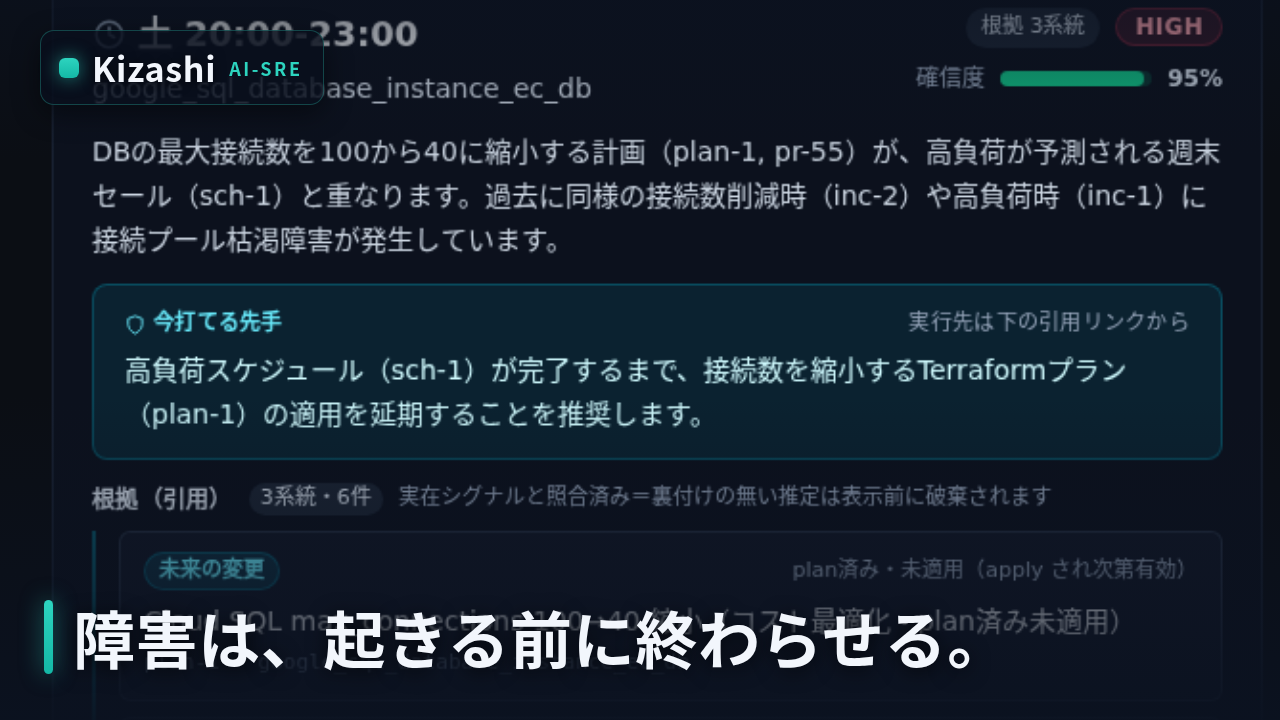
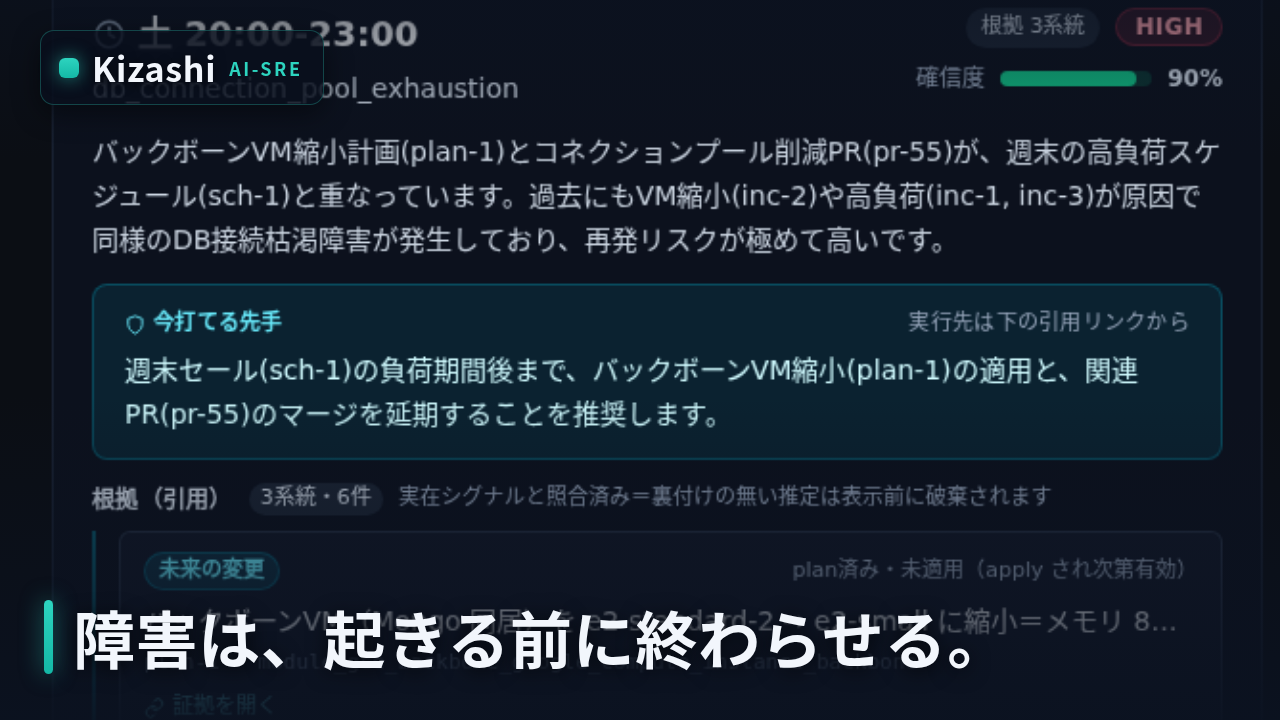
doc最新化

diff --git a/docs/protopedia/video/script.md b/docs/protopedia/video/script.md
@@ -1,12 +1,10 @@
-# 提出動画 台本（2分・合成音声用）
+# 提出動画 台本（完成版 as-built・1:54.70）
 
-> 構成の正: `docs/steps/step6-submission-prompt.md` B-3 の骨子を **2分に圧縮**したもの（競合作品は1分前後が多く、完走率優先で2:00上限。開幕60秒=予兆は `step6-final-sprint-strategy.md` §5 のまま）。
-> 運用: 録画テイクが撮れてから文言を微修正する骨組み確定版。**seed 実物の数値（confidence・チップ文言・件数）と食い違ったらテイク側に合わせて直す**。
-> **take003 突合済み（2026-07-07・step7 C3）**: 各カットの撮影メモに「**実測（take003）**」で on-screen 実測値を記録。ナレーションは揮発数値を言わない設計のため矛盾なし。
-> **⚠ Option B 変更（2026-07-08）**: flagship plan-1 を合成 Cloud SQL（`ec_db` 100→40・外部リンクなし）から**実在リソースの本物 plan**（バックボーンVM `e2-standard-2→e2-small`＝実 PR #83）へ張り替え、plan-1 チップに「証拠を開く」リンクを追加。**カット1（予報）・カット2（引用チップ）は要再撮影**（take003 は旧 Cloud SQL 表示・リンクなし）。ナレは揮発値・リソース名を言わない設計なので台本本文の音声は不変、on-screen のみ差分。
+> **正（2026-07-08 確定）**: リポジトリ直下の完成編集版 **`ハッカソンtake003.mp4`**（1:54.70・1920×1080/30fps・H.264＋AAC）を台本の正とする。本書のカット表はその実内容（as-built）に全面更新済み。ナレーション文言は本編に焼き込まれた字幕（＝ナレ全文をテロップ表示するサブタイトル方式）から復元したもの。
+> 素材の由来: タイトルカードPNG＋`output/take004/part1`（予兆・Option B 反映）＋`output/take003/part2`（調査）＋`output/take003/part3`（学習）＋`output/take004/part4`（ドッグフーディング）。撮影は `scripts/video-capture/`（経緯・撮り直し手順は `docs/steps/step7-final-review-todo.md` §C/§D）。
+> 旧版の設計経緯（take002 豆腐事故→take003→Option B→take004 部分再撮影）は git 履歴参照。本書は「完成版に何が映っているか」を一次資料として保持する——ProtoPedia 文言・ピッチ台本・再編集はここに合わせる。
 
-> 話速想定: 約300字/分（合成音声・ゆっくりめ）＝全体約500字。
-> 撮影: `scripts/video-capture/` がパート単位の webm（`output/takeNNN/part1-forecast.webm` 等）とスクショを自動採取する。パート→カット対応は下表。
+> 話速実測: 全編で約470字/1:55（合成音声・ゆっくりめ）。
 
 ---
 
@@ -14,147 +12,120 @@
 
 > 前提: AI審査員は「音声の文字起こし（ASR）」と「サンプリングしたフレームの OCR／画像理解」で動画を評価しうる。**ナレーションの明瞭さとテロップの機械可読性が最優先**。人間審査員の早送り視聴にも同じ設計が効く。
 
-### BGM は入れるか
+### as-built のテロップ方式（完成版の実態）
 
-- **入れてよいが条件付き**（入れなくても減点はない。トーンは提出資料と同じ事実ベース＝情緒的に盛り上げる曲は不可）。
-- 条件:
-  - **インストゥルメンタルのみ**（歌声・コーラスは文字起こしを汚染する）。
-  - 音量は**ナレーションピーク比 −20dB 以下**（ナレの明瞭度が最優先。迷ったらさらに下げる）。
-  - 書き出し全体のラウドネスは **−14 LUFS** 目安（YouTube の正規化基準。これより大きくしても再生時に下げられるだけ）。
-- 無ナレ区間（カット0・カット7末尾のタイトル）のみ +3〜6dB 上げてよい。カット間の無音0.5秒は BGM で埋まってよい（完全無音の連続は素人感が出る）。
-- 迷ったら「BGM なし・ナレーションのみ」を選ぶ。文字起こし精度 > 演出。
+- **サブタイトル方式**: 短い要約テロップではなく、**ナレーション全文を白太字2行以内の字幕として画面下部中央に焼き込み**。ASR と OCR が同一文言で一致するため、AI審査の取りこぼしに最も強い形。
+- 背景帯は**敷いていない**（白太字＋縁取りで直置き）。サンプルフレーム目視ではUIとの混色による可読性低下は軽微（改善メモ①参照）。
+- 絵文字はテロップに不使用（take002 の豆腐化の教訓）。
+- 倍速バッジ: 右上に「**×5倍速**」（カット4 調査・実測139秒区間）／「**×16倍速**」（カット7 CVE調査・実測116秒区間）を白太字で常時表示。どこを速めたかの正直な明示。
 
-### テロップ仕様
+### BGM（再編集時の基準・初版設計のまま有効）
 
-| 項目 | 値 |
-| --- | --- |
-| フォント | **Noto Sans JP**（本文 Bold=700・強調 Black=900）。装飾フォント不可＝OCR 最優先。UI と同系のサンセリフで統一感も取れる |
-| 文字色（メイン） | `#FFFFFF` |
-| 文字色（補足） | `#E2E8F0` |
-| 強調色（1テロップにキーワード1語まで） | `#38BDF8`（タイトルカードのダーク `#0B1220` 系に合うシアン。アプリのアクセント色があればそちらに合わせる） |
-| 背景帯 | `#0B1220` 不透明度 70〜80%（`rgba(11,18,32,0.75)`）。**どの画面の上でも必ず帯を敷く**（UI と文字の混色で OCR が落ちるのを防ぐ） |
-| サイズ（1080p 基準） | メインテロップ **56〜64px**（画面高の約5〜6%）・倍速バッジ **40〜48px** |
-| 位置 | **下部 1/3 に固定**。左右・下のセーフマージン 5%（96px / 54px）。予報カード・引用チップ・証拠リンク等の「見せたい UI」を隠さない |
-| 行数・字数 | 最大2行・1行 全角15〜18字。1テロップ = 1メッセージ |
-| 表示時間 | 最低2秒。対応するナレーションの読み上げ区間と開始・終了を揃える |
-
-### 倍速（カット4「×N」）の表現
-
-- **右上に常時チップ「×4」**（上記フォント Bold・背景帯つき・40〜48px）。倍速区間の開始フレームで出し、実速に戻るフレームで消す＝「どこを速めたか」の正直な明示（審査で誠実さとして効く）。
-- 早送り風エフェクト（モーションブラー・ホワイトフラッシュ・コマ落ち風）は不可: フレーム OCR で文字が潰れる＋演出過多でトーンに反する。
-- タイムライン UI のタイムスタンプが飛んで進む様子がそのまま映るので、それ自体が倍速の証明になる（追加演出不要）。
-
-### その他 tips（AI審査で効く順）
-
-1. **テロップはナレーションと同じ語彙で書く**。ASR（音声）と OCR（画面）が同じキーワードで一致すると、情報が二重に拾われ取りこぼしがない。
-2. **テロップに数値を焼くなら実測値と完全一致させる**（撮影前チェックリスト C3 と同じ基準）。音声・画面・テロップ間の数値矛盾は AI が最も検出しやすい失点。
-3. テロップの出入りは**ハードカットか 0.2 秒以内のフェード**。長いフェードは半透明の中間フレームがサンプリングされ OCR が落ちる。
-4. **テロップに絵文字を使わない**（🛡 等は UI 側のみ。take002 の豆腐化の教訓＝フォント環境依存）。
-5. 最後に**テロップだけを通し読み**して物語が通るか確認（チェックリスト最終項目と同じ。早送り・フレーム抽出のどちらの審査でも骨子が残る）。
+- 入れてよいが条件付き（入れなくても減点はない。情緒的に盛り上げる曲は不可）。
+- インストゥルメンタルのみ／ナレーションピーク比 −20dB 以下／全体 −14 LUFS 目安。
+- 無ナレ区間（カット0）のみ +3〜6dB 可。迷ったら BGM なし。文字起こし精度 > 演出。
 
 ---
 
-## パート（撮影単位）→ カット対応
+## 完成版の素材構成
 
-| パート webm | カバーするカット | 備考 |
+| 区間 | 素材 | 備考 |
 | --- | --- | --- |
-| `part1-forecast` | カット1〜3前半 | 予報→引用→先手→ブリッジ遷移 |
-| `part2-investigation` | カット3後半〜5 | 着弾→調査（生撮り・編集で倍速）→レポート |
-| `part3-learning` | カット5承認〜6 | 承認→昇格→再発火の即・既知 |
-| `part4-dogfooding` | カット7素材 | CVEアラート＋実draft PR |
-| スライドPNG | カット0（タイトルカード）・カット7締め | 撮影ツール対象外（HTML→PNG・step7 todo C1） |
+| カット0 | `docs/protopedia/assets/title-card.png`（静止5秒） | Heroコピー＋Kizashi副題 |
+| カット1〜3 | `output/take004/part1-forecast.mp4` | Option B 反映（plan-1=VM縮小・#83/#55 同一タブ遷移） |
+| カット4〜5 | `output/take003/part2-investigation.mp4` | 実 Gemini 調査139秒→編集で×5倍速 |
+| カット6 | `output/take003/part3-learning.mp4` | 承認→昇格→再発火の即・既知 |
+| カット7 | `output/take004/part4-dogfooding.mp4` | CVE注入→調査116秒（×16倍速）→起票→PR #29 |
 
 ---
 
-## カット表
+## カット表（as-built）
 
-### カット0｜0:00–0:05｜タイトルカード（Heroコピー）
+### カット0｜0:00–0:05｜タイトルカード
 
-- **画面**: 静止PNG（`docs/protopedia/assets/title-card.png`・ダーク #0B1220）。中央に大「**障害は、起きる前に終わらせる。**」＋小「Kizashi — AI-SRE エージェント」。
-- **ナレーション**: なし（無音0.5秒→カット1ナレへ）。審査員がどの再生環境でも**最初の5秒で価値コピーを読める**ことが目的。
-- **撮影メモ**: step7 todo C1 で生成。動画編集で先頭に静止配置（フェードなしのハードカットで可）。
+- **画面**: 静止PNG（ダーク #0B1220）。中央に大「**障害は、起きる前に終わらせる。**」＋小「Kizashi — AI-SRE エージェント」（teal アクセント）。
+- **ナレーション**: なし（無音→カット1へハードカット）。
 
-### カット1｜0:05–0:17｜フック: 予報カード
+### カット1｜0:05–0:14｜フック: 予報カード
 
-- **画面**: 予兆ページ `/forecast`。DB接続枯渇の予報カード全景（HIGH・確信度・引用チップ・🛡先手）。
-- **ナレーション**（51字）: データベースが落ちる“前”に、AIはこう言いました。——「土曜20時、DB接続枯渇・リスクHIGH」。
-- **テロップ**: 起きる前に、根拠付きで予報する
-- **撮影メモ**: F8 フラッグシップ seed・事前生成済み予報（GET /forecast キャッシュ）。**実測（take003）**: 窓＝`土 20:00-23:00`・確信度 **95%**・HIGH・根拠 3系統6件・評価シグナル9件。確信度はナレで言わない（画面に映る）。窓が「土曜20時」始まりであることはナレと一致。
+- **画面**: 予兆ブリーフィング `/forecast` 全景。予報カード＝窓 `土 20:00-23:00`・**HIGH・確信度 90%**・`db_connection_pool_exhaustion`・根拠3系統6件・評価シグナル9件・「今打てる先手」。右サイドに投入シグナル台帳＋デモコンソール。ヘッダ「Kizashi AI-SRE」。
+- **ナレーション/字幕**: 障害が起きる前にAIは予報します。——「週末の夜にDB障害のリスクが高い」。
+- **メモ**: 確信度・窓の数値はナレで言わない（画面が語る）。F8 フラッグシップ seed・事前生成済みキャッシュ（撮影中に POST しない）。
 
-### カット2｜0:17–0:36｜根拠は本物 ＋ 先手
+### カット2｜0:14–0:29｜根拠は本物 ＋ 先手
 
-- **画面**: 「未マージPR」の引用チップ（`pr-55`・`[draft] chore(db): cap DB connection pool`）の「証拠を開く」をクリック → 実在の draft PR に解決 → 戻って「🛡 今打てる先手」を静止。
-- **ナレーション**（79字）: 根拠は引用。プール縮小の未マージPR、週末セールの負荷予定、過去の同型障害。偽の引用は実在照合で自動で落ち、さらに、いま打てる先手まで提示します。
-- **テロップ**: 引用は実在照合済み・偽引用は自動除外
-- **撮影メモ**: PR チップの解決先は実 draft PR（branch `chore/db-connection-pool-cap`）。撮影前にリンク切れ確認。**⚠ Option B で要再撮影（take003 は旧内容）**: plan-1 を実在リソースの本物 plan（バックボーンVM `e2-standard-2→e2-small` 縮小＝PR #83）に張り替え、plan-1 チップにも「証拠を開く」リンクを付けた。新on-screen: 引用レーンは3系統＝未来の変更（plan-1 VM 縮小＝**実 PR #83 にリンク**／pr-55 draft）・スケジュール（sch-1 週末セール checkout x5）・過去の同型事例（inc-1／inc-2＝過去に同じ VM 縮小で枯渇）。**外部リンク付きは pr-55 と plan-1 の両方**。先手＝「高負荷スケジュール(sch-1)完了まで VM 縮小プラン(plan-1)適用を延期」。**capture.mjs 更新（2026-07-08・(c)方式）で「証拠を開く」は撮影時だけ target を外し本物クリックで本編と同一タブに遷移する**（旧実装は別タブ popup を別 webm に録って閉じ、本編 mp4 に PR が一切写らなかった＝「PRに飛んでいない」の実体）。plan-1→PR #83、pr-55→draft PR の2本を順に開いて /forecast へ戻る。
-- **⚠ 撮影前の GitHub リタイトル（人間・VM 物語への整合）**: ①**PR #55** を「[現行] cap DB connection pool (max_connections 100→40)…」→「**chore(db): cap Mongo connection pool (maxPoolSize 100→40) to fit downsized backbone VM**」へ（diff=MongoClientFactory maxPoolSize 40 のままタイトルだけ実態に合わせ、VM 縮小に合わせたプール縮小＝flagship と同一物語に編入。チップ desc/subject は PR タイトル直写しなのでリタイトルだけで UI が直る）。②**PR #83** のタイトルから「（デモ証拠PR・DO NOT MERGE）」を外し「chore(infra): バックボーンVMをコスト最適化で e2-small に縮小」へ（pr-83 チップにも title が直写しされるため。draft 状態＋本文の DO NOT MERGE 警告は維持＝draft はマージボタンが塞がれるので安全）。リタイトル後に予報を再生成してから撮影。
+- **画面**: ①plan-1 チップ「バックボーンVM（Mongo 同居）を e2-standard-2 → e2-small に縮小」の「証拠を開く」→ **実 PR #83 に本編同一タブで遷移**（github-actions bot の terraform plan コメント＝リソース変更3件・`gce_backbone` 含む＝D2/D3 パイプラインの実発火）→ `/forecast` へ復帰 ② pr-55 チップ「[draft] chore(db): cap Mongo connection pool (maxPoolSize 100→40) to fit downsized backbone VM」→ **実 PR #55 draft に同一タブ遷移** ③戻って「今打てる先手」（sch-1 完了まで plan-1 適用と pr-55 マージを延期）を静止。
+- **ナレーション/字幕**: AIは過去・現在・未来の情報を根拠に予報します。例えば未マージのPR、週末セールの負荷予定、過去のアラートなど。さらに打てる手段まで提示します。
+- **メモ**: 引用は plan-1/pr-55/sch-1/inc-1/inc-2/inc-3（3系統6件）。「証拠を開く」は capture.mjs の (c)方式＝撮影時だけ target を外し本物クリックで同一タブ遷移（本編 mp4 に PR が写る）。外部リンク復帰は goBack でなく明示 goto（クロスオリジン戻り対策）。
 
-### カット3｜0:36–0:48｜発火 → 未知分類
+### カット3｜0:29–0:44｜記憶との照合 → 発火への橋
 
-- **画面**: ページ末尾ブリッジCTA「もし防ぎきれずに発火したら？」→ `/alerts` → アラート着弾（合成バッジ可）→「未知」判定 → 調査開始。
-- **ナレーション**（58字）: それでも防げず発火したら。アラートを過去の記憶と照合し、未知と判定。ここで初めてAIエージェントが起動します。
-- **テロップ**: 既知・類似ならAIを呼ばない ／ 未知だけ自律調査
-- **撮影メモ**: デモシナリオ **3b** を使用。DB枯渇そのものの発火シナリオは無いため**障害種別を名指ししない**文面。**実測（take003）**: アラート名＝「インフラ障害（CRITICAL ログ検知）」（`gcp.monitoring.critical_log_entries`）・分類＝未知。
+- **画面**: 過去の同型事例チップ inc-1 →「チェックアウト遅延」（2026/6/20・AI推定パターン `db connection pool exhaustion`）へ**アプリ内遷移**＝「過去の記憶」の実物 → `/forecast` 末尾のブリッジCTA「もし防ぎきれずに発火したら？」→ `/alerts`（学習ループのオンボーディングバナー＋デモコンソール）。
+- **ナレーション/字幕**: それでも防げず発火したら。アラートを過去の記憶と照合し、未知と判定された場合、ここで初めてAIエージェントが起動します。
+- **メモ**: 旧台本と違い「未知判定の瞬間」を独立カットにせず、過去アラート詳細を「記憶」の画として使いながらナレで照合→未知→起動を語る構成。着弾一覧の「AI が未知障害を調査中…」表示（カット4冒頭）が未知判定の画面証拠を兼ねる。
 
-### カット4｜0:48–1:12｜ADK 8エージェントのライブ調査
+### カット4｜0:44–1:05｜ADK マルチエージェントのライブ調査（×5倍速）
 
-- **画面**: SSE ライブ・タイムライン。**生撮り約2〜3分 → 編集で2〜4倍速**（開始と着地のみ実速・「×N」表示を焼き込む）。
-- **ナレーション**（92字）: Google ADKの8体のエージェントが、実ログ・実コミット差分・インフラ差分をread-onlyで横断。批判役エージェントが、証拠のない因果を検証してはじきます。過程はライブで中継されます。
-- **テロップ**: ADK 8エージェント ／ read-only（×N倍速表示）
-- **撮影メモ**: 実 Gemini 経路。fallback が出たテイクは撮り直し。**実測（take003）**: 8エージェント実名＝Coordinator／EvidenceCollector（ログ・Terraform・コミット・類似事例DB を横断）／RootCauseAnalyst／ImpactTriage／**CorrelationVerifier（＝批判役・相関主張と因果の向きを検証）**／RemediationPlanner／RunbookEscalation／RemediationReviewer。ナレの「批判役」＝CorrelationVerifier、「実ログ・コミット差分・インフラ差分」＝EvidenceCollectorの収集源に一致。調査 **139秒**（倍速表示の根拠）。fallbackなし。
+- **画面**: デモコンソールから「インフラ障害（合成・反復用）」＝シナリオ3b を注入 → 一覧に着弾「インフラ障害（CRITICAL ログ検知）」（`gcp.monitoring.critical_log_entries`）→ 詳細のSSEライブ・タイムライン。8エージェント実名（Coordinator／EvidenceCollector／RootCauseAnalyst／ImpactTriage／**CorrelationVerifier＝批判役**／RemediationPlanner／RunbookEscalation／RemediationReviewer）が順に実行中→✓。右上に「×5倍速」バッジ。
+- **ナレーション/字幕**: Google ADKのマルチエージェントが、実ログ・実コミット差分・インフラ差分をread-onlyで横断。批判役エージェントが、証拠のない因果を検証してはじきます。過程はライブで中継されます。
+- **メモ**: ナレは「8体」と数を言わず「マルチエージェント」（画面に8行の実名が映るので数は画面が語る）。実測: 実 Gemini 調査 **139秒**・fallbackなし。
 
-### カット5｜1:12–1:35｜レポート・証拠・承認
+### カット5｜1:05–1:21｜レポート・証拠・承認
 
-- **画面**: レポート（原因・影響・確信度）→ 根拠リンククリック → 実コミット/実PR → 戻ってAIの分類判定を「承認」クリック（PR自体の承認・マージではない）。
-- **ナレーション**（75字）: 数分で、根拠リンク付きのレポート。原因は実在のコミットへ、インフラ変更は実在のPRへ。人間がやるのは、裏を取って、AIの判定を承認するだけです。
-- **テロップ**: 結論には実在の証拠リンク ／ 最終判断は人間
-- **撮影メモ**: 確信度の実測値が映るためナレで数値は言わない。GitHub タブは事前ログイン・ダーク統一。PRは閲覧のみ（承認・マージ操作はしない）。**実測（take003）**: 原因＝`db connection exhaustion`（Terraform で `max_connections 100→20` の退行）・証拠 **6件**（Terraform 1＋類似事例DB 5）・確信度 **90%**（AI自己申告95%を裏付け上限で90%に補正・画面に映る）・影響算定根拠 3/3 実在照合済み。収集証拠 TERRAFORM カードの「変更 PR を開く」が実PRへ解決。「数分」＝実測139秒。
+- **画面**: レポート全景＝発報内容（合成注入の正直開示つき）→ AI推定パターン `db connection exhaustion`（自責・自社コード/IaC起因）→ 証拠の流れ（Terraform 1＋類似事例DB 5＝6件・**AI確信度 90%**＝自己申告95%を裏付け上限で補正、の但し書きが映る）→ 推奨アクション（`max_connections` を戻す）→ 影響評価（算定根拠 3/3 実在照合済み）→ 収集した証拠 TERRAFORM カード（`max_connections: 100 → 20` の実差分）→「AI の分類をレビュー」の**承認**をクリック。
+- **ナレーション/字幕**: 数分で、根拠リンク付きのレポート作成。原因となるコミットやPRへのリンクも引用します。作業者はAIの判定をレビューと承認するだけ。
+- **メモ**: このカットでは GitHub へ飛ばない（カット2で#83/#55、カット7で#29 に実遷移済み＝リンク実在性は別カットが証明）。「数分」＝実測139秒と整合。
 
-### カット6｜1:35–1:48｜学習ループ（既知1秒）
+### カット6｜1:21–1:32｜学習ループ（既知1秒）
 
-- **画面**: 承認完了通知 → 既知へ昇格 → 同型アラート再発火 → 一覧で即「既知」判定の対比。
-- **ナレーション**（55字）: 承認で学習し、同じ障害は次から1秒未満・AIコストゼロで判定。使うほど、速く安くなります。
-- **テロップ**: 既知は1秒未満 ／ AIコストゼロ
-- **撮影メモ**: 承認で dedup 窓から外れ再発火が即・既知になる実装挙動をそのまま使う。**実測（take003）**: 再発火アラートは「✓ 完全一致」（EXACT）・承認済みカードは「AI確信度 90%」表示。上部カウンタ＝総アラート **6件**＝既知即決 1＋AI調査 5＋学習パターン化 1。
+- **画面**: 承認済み表示→「既知パターンへ昇格済み」→ 一覧（総アラート・AI確信度90%の承認済みカード）→ 同型アラート再発火が即「**✓ 完全一致**」で着弾（レビュー待ち・AI調査なし）。
+- **ナレーション/字幕**: 承認で学習し、同じ障害は次から1秒未満・AIコストゼロで判定。運用するほど、速く安く調査ができます。
+- **メモ**: 承認で dedup 窓から外れ再発火が即・既知になる実装挙動をそのまま撮影。
 
-### カット7｜1:48–2:00｜ドッグフーディング ＋ 締め
+### カット7｜1:32–1:54.7｜ドッグフーディング ＋ 締め
 
-- **画面**: 自リポジトリ CI（Trivy）検知のアラート → AI起票の**実 draft PR**（2〜3秒）→ スライドPNG（アーキ4層＋数字パック: ユニットテスト全緑・既知1秒未満・調査約2〜3分）→ タイトル。
-- **ナレーション**（72字）: このリポジトリ自身も監視対象。CIの脆弱性検知から、AIが修正のドラフトPRまで起票します。起きる前に予報し、起きた後は自律調査する——Kizashiです。
-- **テロップ**: 自分自身も監視（自動マージなし・人間承認） ／ 数値はすべて実測
-- **撮影メモ**: draft PR は事前起票済みの実物＝**PR #29**。**カット7は capture.mjs 更新（2026-07-08・(c)方式）で「アプリ内の実リンク『修正 PR を開く →』を撮影時だけ target を外し本物クリックで同一タブに開く」動線に変更**（調査完了＝RemediationPanel が drafted になるまで待ってからクリック。remediation mode=demo が PR #29 を返す）。リンクが出ない環境は `DRAFT_PR_URL`／既定 #29 への直行にフォールバック。旧実装は `page.goto` の直行ジャンプで**アプリからの動線が映らなかった**（本編と繋がらない）ための改修。スライドは HTML→headless Chrome→PNG。**実測（take003）**: CVEアラート＝「脆弱性の検知」（`security.vulnerability_detected`・trivy）。draft PR に実CVEリンク（CVE-2021-3807／CVE-2022-25883）・`ai-remediation[bot]` の2コミット・`Draft`／「自動マージはしません」表示。
+- **画面**: デモコンソール「脆弱性検知」（CI(Trivy) の HIGH/CRITICAL を合成→AI調査→修正PR起票＝DevOpsループ、の説明が映る）→ 注入 →「脆弱性の検知」（`security.vulnerability_detected`・trivy）の8エージェント調査（右上「×16倍速」）→ レポート＝依存パッケージ2つ（`ansi-regex`/`semver`）にCRITICAL/HIGH計2件・実CVE引用・証拠12件（GitHub 10＋類似事例DB 2）・確信度90%・算定根拠 3/3 実在照合 → 自動修正（リメディエーション）パネル「修正を起票」実クリック→「修正 PR 作成済み・修正 PR を開く →」→ **実 draft PR #29 に本編同一タブで遷移**（「セキュリティ: 依存関係の脆弱性を修正」・`ai-remediation[bot]` 2コミット・CVE-2021-3807／CVE-2022-25883・Draft・「自動マージはしません」）。ここで終了。
+- **ナレーション/字幕**: このリポジトリ自身も監視対象。CIの脆弱性検知から、AIが修正のドラフトPRまで起票します。起きる前に予報し、起きた後は自律調査する——これがKizashi（兆し）の機能になります。
+- **メモ**: 実測: CVE調査 **116秒**・fallbackなし。旧台本にあった「スライドPNG（アーキ4層＋数字パック）→締めタイトル」は**完成版には入っていない**（改善メモ①）。アーキ図は ProtoPedia 画像2枚目で担保。
 
 ---
 
-## ProtoPedia 紹介画像5枚との対応（B-5）
+## 改善メモ（再編集する場合のみ・ROI順）
 
-| 画像 | 採取元 | UI状態 |
+1. **締めにタイトルカードを1.5〜3秒追加**（`title-card.png` 再利用・ナレ追加不要・末尾に静止画を足す編集のみ）: 現状は GitHub の PR ページ（Sign up バナー入り）で突然終わり、最終フレームにブランドの回収がない。尺は 1:58 前後に収まり2:00上限内。数字パック（テスト全緑・既知1秒・調査2分）を小さく添える案も可。
+2. 締めのナレ「これがKizashi（兆し）の機能になります」は説明形で締めとしては弱い——再録するなら「障害は、起きる前に終わらせる。——Kizashiです。」で Hero コピーを回収（音声再録が必要なので①より重い）。
+3. テロップに半透明帯（`rgba(11,18,32,0.75)`）を敷くと UI と重なるフレームの OCR 耐性が上がる（現状でも軽微、全面再編集になるため優先度低）。
+4. 表記ゆれ: 字幕「出来ます」→「できます」（かな書き推奨・微差）。
+
+---
+
+## ProtoPedia 紹介画像5枚との対応（B2 ポスター化済み）
+
+| 画像 | ファイル | 元素材 |
 | --- | --- | --- |
-| 1. 予報カード＋引用チップ | part1 `01-forecast-card.png` | HIGH・確信度・チップが1画面に |
-| 2. アーキ図 | スライドPNG | — |
-| 3. 調査ライブ・タイムライン | part2 `03-live-timeline.png` | 複数エージェントの進行が見える瞬間 |
-| 4. 証拠パネル | part2 `06-evidence-panel.png` 前後 | 実ログ・実diff・実PRリンクが並ぶ |
-| 5. 既知1秒の対比 | part3 `01-known-instant.png` | 承認済みと即・既知が同一画面 |
+| 1. 予報カード（Hero） | `poster-1-hero.png` | take004 part1 `01-forecast-card`（VM予報・90%） |
+| 2. アーキ図 | `architecture.png`（ダーク版・帯なし） | B1 再レンダ |
+| 3. 調査ライブ・タイムライン | `poster-3-live-agents.png` | take003 part2 `03-live-timeline` |
+| 4. 証拠パネル | `poster-4-evidence.png` | take003 part2 `06-evidence-panel` |
+| 5. 既知1秒の対比 | `poster-5-known.png` | take003 part3 `01-known-instant` |
 
 ---
 
-## 合成音声メモ（VOICEVOX 等）
+## 合成音声メモ（VOICEVOX 等・再録時用）
 
-- 読み方辞書: Kizashi=きざし ／ ADK=エーディーケー ／ DB=ディービー ／ PR=ピーアール ／ draft=ドラフト ／ diff=ディフ ／ read-only=リードオンリー ／ HIGH=ハイ ／ Trivy=トリビー ／ Gemini=ジェミニ
+- 読み方辞書: Kizashi=きざし ／ ADK=エーディーケー ／ DB=ディービー ／ PR=ピーアール ／ draft=ドラフト ／ read-only=リードオンリー ／ HIGH=ハイ ／ Trivy=トリビー ／ Gemini=ジェミニ ／ CVE=シーブイイー
 - 「——」は0.5秒ポーズ、「。」は0.4秒ポーズ目安。カット間は無音0.5秒。
 - トーンは提出資料と同じ事実ベース（情緒演出なし）。
 
 ---
 
-## 撮影前チェックリスト
+## 完成版チェック結果（旧・撮影前チェックリストの照合）
 
-- [ ] **絵文字フォント**: `fc-list | grep -ci emoji` が 1 以上（0 だと 🛡📅 等が全編□に化ける。take002 で実害確認済み＝step7 todo A1）
-- [ ] **ブランド**: アプリヘッダーが「Kizashi」表記（step7 todo A2 反映後に撮る）
-- [ ] タイトルカード PNG 生成済み（`docs/protopedia/assets/title-card.png`・step7 todo C1）
-- [ ] FORECAST_ENABLED=on・予報は事前生成済み（POST を撮影中に走らせない）
-- [ ] 引用チップ全クリック確認（PR / plan / 過去Alert のリンク切れなし）
-- [ ] シナリオ3b を実 Gemini でリハ1周（fallback にならないこと・正当相関が残ること）
-- [x] confidence・件数・チップ文言を seed 実物と突合し、台本の数字を実物に合わせて修正（take003 と突合済み・各カット撮影メモに実測値記録＝C3）
-- [ ] GitHub タブ: ログイン済み・テーマ統一・通知バッジ等の映り込みなし
-- [ ] 撮影はローカル compose（本番URLでは撮らない）
-- [ ] **テロップ完結性**: どの15秒で切られても物語が通るか、テロップだけ通し読みして確認（審査員は早送りする前提）
+- [x] 絵文字フォント/豆腐: 全サンプルフレームに U+FFFD/□ なし（A1 SVG化＋フォント導入）
+- [x] ブランド: 全画面ヘッダー「Kizashi AI-SRE」・タイトルカードあり（0:00–0:05）
+- [x] 予報は事前生成キャッシュ（撮影中の POST なし）・確信度90%はナレで言わない設計と整合
+- [x] 引用チップの実遷移が本編に焼き込み（plan-1→#83／pr-55→#55／カット7→#29・すべて同一タブ）
+- [x] シナリオ3b 実 Gemini 完走（139秒・fallbackなし）／CVE 116秒・fallbackなし
+- [x] 数値矛盾なし: ナレは揮発数値を言わず、画面実測（90%・6件・12件・3/3照合）と字幕が矛盾しない
+- [x] テロップ完結性: 字幕＝ナレ全文のため、どの15秒で切られても音声と画面の情報が一致
+- [ ] 締めのブランド回収（改善メモ①・任意）

diff --git a/docs/steps/step7-final-review-todo.md b/docs/steps/step7-final-review-todo.md
@@ -22,8 +22,8 @@
 | D2   | terraform plan の永続化＋PRコメント（CIのみ）       | ★★★☆☆          | エージェント＋人間(CI確認) | 済（plan.txt＋redacted JSONをartifact保存・PRコメントupsert・生plan.jsonはsensitive平文を含むため不保存／要人間=ダミーPRでCI確認）                               |
 | D3   | plan の record口への自動投入                        | ★★☆☆☆（D2後）  | エージェント＋人間(CI確認) | 済（POST /ingest/terraform-plan 新設・CIからredacted差分を自動POST・UT+9 1065緑・tsc緑／要人間=D2と同じダミーPRで疎通確認）                                      |
 | D3.5 | flagship plan-1 を実在VM plan へ張り替え＋#83リンク | ★★★★☆          | エージェント＋人間(PR)     | 済（plan-1=バックボーンVM e2-standard-2→e2-small・過去事例/stub/subject突合も張り替え・#83を既定リンク・ローカル実Gemini検証で引用[plan-1,sch-1,inc-2]・1069緑） |
-| D4   | part1 再撮影（VM予報＋plan-1リンク＋同一タブ遷移）  | ★★★☆☆（B必須） | エージェント               | 未（Option Bで plan-1=VM縮小＋証拠を開く→#83／capture.mjs=(c)方式で証拠リンクを同一タブに焼く・音声台本不変/on-screenのみ／後続でB2#1・B3再生成／script.md・retake-prompt更新済み） |
-| D5   | part4 再撮影（カット7 同一タブ「修正PRを開く」動線）| ★★★☆☆          | エージェント               | 未（アラート→AI起票PRを1動線に・調査完了(drafted)待ち+約2分・未検出時#29直行フォールバック・capture.mjs/script.md/retake-prompt更新済み）                        |
+| D4   | part1 再撮影（VM予報＋plan-1リンク＋同一タブ遷移）  | ★★★☆☆（B必須） | エージェント               | 済（take004 撮影＝VM予報・plan-1→#83/pr-55→draft を本編同一タブに焼き込み・確信度90%・豆腐0／goBack→goto 修正/B2 poster-1・B3 thumbnail を take004 で再生成/script.md 実測=take004 更新）             |
+| D5   | part4 再撮影（カット7 同一タブ「修正PRを開く」動線）| ★★★☆☆          | エージェント               | 済（take004 撮影＝CVE検知→調査116秒→「修正を起票」実クリック→drafted→修正PRを開く→#29 を1動線で本編に焼き込み／capture.mjs に起票クリック手順を追加/script.md 実測=take004 更新）              |
 | A5   | 調査中の証拠パネルの逐次表示                        | ★☆☆☆☆（余力）  | エージェント               | 未                                                                                                                                                               |
 
 ---
@@ -313,6 +313,21 @@ take003 は旧 Cloud SQL 表示・plan-1 リンクなしで撮影済み。Option
 - **確認**: `cve-alert`（調査後・レポート/RemediationPanel が出た状態）と `draft-pr`（PR #29）が本編に写る。
 - **C3**: カット7 の実測を take004 で突合（ナレ不変）。
 - **依存文言**: 「修正 PR を開く」（RemediationPanel drafted 時）。`retake-prompt.md` のドリフト表に追記済み。
+
+**実施記録（2026-07-08・D4）**: `TAKE=take004 node capture.mjs forecast` で part1 を再撮影（実 Gemini 経路・予報は事前生成キャッシュ＝POSTなし・課金なし）。出力 `output/take004/part1-forecast.mp4`（2.6M・H.264/1920×1080）＋スクショ5枚。
+
+- **capture.mjs バグ修正**: カット2の外部チップ（github PR #83/#55）から /forecast へ戻る動線が `page.goBack()` だとクロスオリジン戻りで SPA カード（article）が復帰せずタイムアウトしていた。**`page.goto(/forecast)` の明示リロードに変更**（初回 goto は成功する＝GET /forecast 200 でカード再描画）。これで part1 が最後まで完走。
+- **目視検証（豆腐0・Kizashi・VM 物語）**: `01-forecast-card`＝予兆ブリーフィング・plan-1「バックボーンVM e2-standard-2→e2-small 縮小・証拠を開く」・pr-55「cap Mongo connection pool (maxPoolSize 100→40)」・A3 人間語見出し/mono メタ・A4 一文導入・**確信度 90%**（旧 take003 は 95%）。`02/03`＝plan-1→**PR #83**（terraform plan コメント3件変更・gce_backbone 含む＝D2/D3 発火済み）／pr-55→**PR #55 draft**（いずれも本編同一タブ遷移＝(c)方式で mp4 に PR が写る）。`04`＝過去 Alert inc-1「チェックアウト遅延」へアプリ内遷移。`05`＝今打てる先手。すべて U+FFFD/□ なし。
+- **後続完了**: `make-posters.mjs`/`make-thumbnail.mjs` を take 指定可に改修（poster-1-hero と video-thumbnail を **take004** から、poster 3/4/5 は part2/part3 由来で take003 据置）→ `poster-1-hero.png`・`video-thumbnail.png` を VM 予報カードで再生成（豆腐0・目視 OK）。
+- **C3**: `script.md` カット1/2 を「実測（take004）」へ更新（確信度 95%→**90%**・plan-1=VM・同一タブ遷移の焼き込み確認）。ナレは揮発値を言わない設計のため不変。
+- **残（人間）**: 採用 mp4/スクショの確定と提出物への反映（output/ は .gitignore・採用スクショのみ docs/protopedia/assets/ へコピー）。前提の GitHub リタイトル #55/#83 は反映済みを確認（予報 JSON・スクショで実タイトル表示）。
+
+**実施記録（2026-07-08・D5）**: 先に `POST /demo/reset`（シナリオ4 dedup 回避）→ `TAKE=take004 node capture.mjs dogfooding` で part4 を再撮影（実 Gemini 調査・**116秒**・証拠12件・確信度90%・fallbackなし）。
+
+- **capture.mjs バグ修正**: 旧実装は調査完了後すぐ「修正 PR を開く」リンクを探したが、**調査直後の RemediationPanel は status=none で「修正を起票」ボタンしか無く drafted リンクは未出現**＝毎回フォールバック（#29 直行）していた。**「修正を起票」ボタンを実クリック→drafted 化を待つ手順を追加**（remediation mode=demo は即 drafted で PR #29 を返すことを API で事前検証）。これで「修正 PR を開く →」実リンクが出現し (c)方式で同一タブ遷移。
+- **目視検証**: `02-cve-alert`＝脆弱性の検知・8エージェント調査・実 CVE 引用（ansi-regex/semver）。`03-remediation-drafted`＝「修正 PR 作成済み・対象脆弱性2件・修正 PR を開く →」＋ Trivy CI 証拠（CVE-2021-3807/CVE-2022-25883）。`04-draft-pr`＝**PR #29**「セキュリティ: 依存関係の脆弱性を修正」に本編同一タブ遷移（Draft・ai-remediation[bot] 2コミット・「AI が起票した草案・自動マージしません」）。豆腐0・Kizashi ヘッダ。
+- 動線が「CVE検知 → AI調査 → 修正を起票 → 修正PR」の1本に繋がった（旧 part4 は page.goto 直行ジャンプでアプリ動線が映らなかった問題を解消）。
+- **C3**: `script.md` カット7 を「実測（take004）」へ更新（116秒/12件・起票クリック手順・#29 遷移）。ナレ不変。
 
 ---
 

diff --git a/docs/protopedia/protopedia-submission.md b/docs/protopedia/protopedia-submission.md
@@ -29,14 +29,25 @@
 
 > ⚠ **ProtoPedia は mermaid をレンダリングしない**ため、コードブロックは貼らない。図はアップロードした `architecture.png` が正で、以下は図中の①〜⑥に対応するテキスト補足のみ。
 
-作ったのは、既存の監視基盤の**上に乗る**「アラート発生後の対応を自動化するパイプライン」と、その手前でリスクを事前に知らせる「予報」です。監視・検知は Cloud Monitoring などいまの基盤をそのまま活かし、本作は人が時間を食われている**後工程（調査・評価・報告）と前工程（予報）**に集中します。
+作ったのは、既存の監視基盤の**上に乗る**「アラート発生後の対応を自動化するパイプライン」と、その手前でリスクを事前に知らせる「予報」です。監視・検知は Cloud Monitoring などいまの基盤をそのまま活かし、本作は人が時間を食われている「後工程（調査・評価・報告）」と「前工程（予報）」に集中します。
 
-- **① ingest（3系統）** — 監視対象サービスの業務イベント（RabbitMQ 購読）・Cloud Monitoring の webhook・CI（Trivy）のスキャン結果 POST。同型アラートの嵐は 1件×N に集約。
-- **② 分類** — 既知は1秒未満・AIコストゼロで即確定。類似は confidence 付き。未知だけ次へ。
-- **③ AI 調査（未知のみ）** — Google ADK の 8 エージェント（Gemini 2.5 Pro/Flash / Vertex AI）が Cloud Logging・Terraform 適用差分・GitHub コミット diff・過去事例DB を read-only で横断し、根拠リンク付きレポートを生成。
-- **④ 人間レビュー** — React 観測コンソール（SSE ライブ中継）。承認で学習・却下で再調査・頻出パターンは既知へ昇格。
-- **⑤ 予兆ブリーフィング** — 未マージ PR・未適用 Terraform plan・負荷予定と過去の障害の記憶を突合し、起きる前に予報。引用は実在シグナルと照合済みのものだけ表示し、「今打てる先手」まで1行で提示（実行は人間）。
-- **⑥ 修正（write 隔離）** — GitHub Actions 上で AI が実コードを修正し、テストゲート（Trivy 再スキャン＋テスト緑）を通過した修正だけ draft PR に。自動マージなし・人間承認ゲートで、書き込みは常に止められる。
+**① ingest（3系統）**
+業務イベント（RabbitMQ 購読）／Cloud Monitoring webhook／CI（Trivy）を取り込み。同型アラートの嵐は 1件×N に集約。
+
+**② 分類**
+既知は1秒未満・AIコストゼロで即確定。類似は confidence 付き。未知だけ次へ。
+
+**③ AI 調査（未知のみ）**
+ADK の 8 エージェントが分業——証拠収集・原因分析・影響評価に加え、**相関の因果を疑う批判役**まで。ログ・コード diff・インフラ差分・過去事例を read-only で横断し、根拠リンク付きで報告（Gemini 2.5 Pro/Flash・Vertex AI）。
+
+**④ 人間レビュー**
+React 観測コンソール（SSE ライブ中継）。承認で学習・却下で再調査・頻出パターンは既知へ昇格。
+
+**⑤ 予兆ブリーフィング**
+未マージ PR・未適用 Terraform plan・負荷予定 × 過去の障害の記憶で、起きる前に予報。引用は実在シグナルと照合済みのものだけ表示し、「今打てる先手」を1行で提示（実行は人間）。
+
+**⑥ 修正（write 隔離）**
+GitHub Actions 上で AI が実コードを修正 → テストゲート（Trivy 再スキャン＋テスト緑）を通過した修正だけ draft PR に。自動マージなし・人間承認ゲートで、書き込みは常に止められる。
 
 稼働基盤: Cloud Run（フロント/エッジ）＋ Compute Engine（EDA 常駐系）／データ: MongoDB・RabbitMQ・Elasticsearch・Valkey／IaC: Terraform／AI: Gemini 2.5 Pro/Flash（Vertex AI）＋ Google ADK。
 
@@ -86,7 +97,7 @@ Web サービスを少人数で運用している SRE・オンコール担当・
 
 ---
 
-**注意事項**: デモの合成入力は UI 上のバッジで明示（入口のみ合成・分類→AI 調査は実経路）。修正 PR はライブ起票でなく、同じ AI 修正パイプラインで事前に起票した**実 draft PR** を提示します（書き込みトークン運用と PR 増殖回避のため）。数値は実測のみ（ユニットテスト 1017 件全緑・既知分類は約 1 秒未満・未知の AI 調査は約 2 分前後）。
+**注意事項**: デモの合成入力は UI 上のバッジで明示（入口のみ合成・分類→AI 調査は実経路）。修正 PR はライブ起票でなく、同じ AI 修正パイプラインで事前に起票した**実 draft PR** を提示します（書き込みトークン運用と PR 増殖回避のため）。数値は実測のみ（ユニットテスト 1070 件全緑・既知分類は約 1 秒未満・未知の AI 調査は約 2 分前後）。
 
 ---
 
@@ -102,5 +113,5 @@ Web サービスを少人数で運用している SRE・オンコール担当・
 | 画像5                            | `poster-5-known.png`                                               | 「二度目の同じ障害は、1秒で終わる。」                                                |
 | 動画 URL                         | YouTube（限定公開可）に take003 編集版をアップロード後、URL を貼る | サムネイル= `video-thumbnail.png`／冒頭 0:00–0:05 に `title-card.png`（台本カット0） |
 
-- 動画素材の正: `scripts/video-capture/output/take003/`（part1〜4 mp4・H.264 1920×1080）。台本: [video/script.md](video/script.md)。
+- 動画の正: リポジトリ直下 `ハッカソンtake003.mp4`（T2後は `_final`）。素材: `output/take003/`＋`output/take004/`。as-built 台本: [video/script.md](video/script.md)。
 - 貼り付け後の目視確認: mermaid 等のコードブロックが生テキストで出ていないこと・画像順が上記どおりであること。

diff --git a/README.md b/README.md
@@ -11,7 +11,7 @@ Findy **DevOps × AI Agent Hackathon 2026** 出展作品。
 | 予報               | 未来シグナル3系統×過去の記憶を突合・**引用は実在照合済みのみ表示**       |
 | 未知障害の AI 調査 | **ADK 8エージェント**が read-only 横断・約2〜3分で根拠リンク付きレポート |
 | 既知障害の判定     | **1秒未満・AI コストゼロ**（決定論）                                     |
-| テスト             | ユニット **1017件** ＋ E2E 22件（学習ループ・引用検証を決定論担保）      |
+| テスト             | ユニット **1070件** ＋ E2E 22件（学習ループ・引用検証を決定論担保）      |
 
 ## 何が違うか
 
